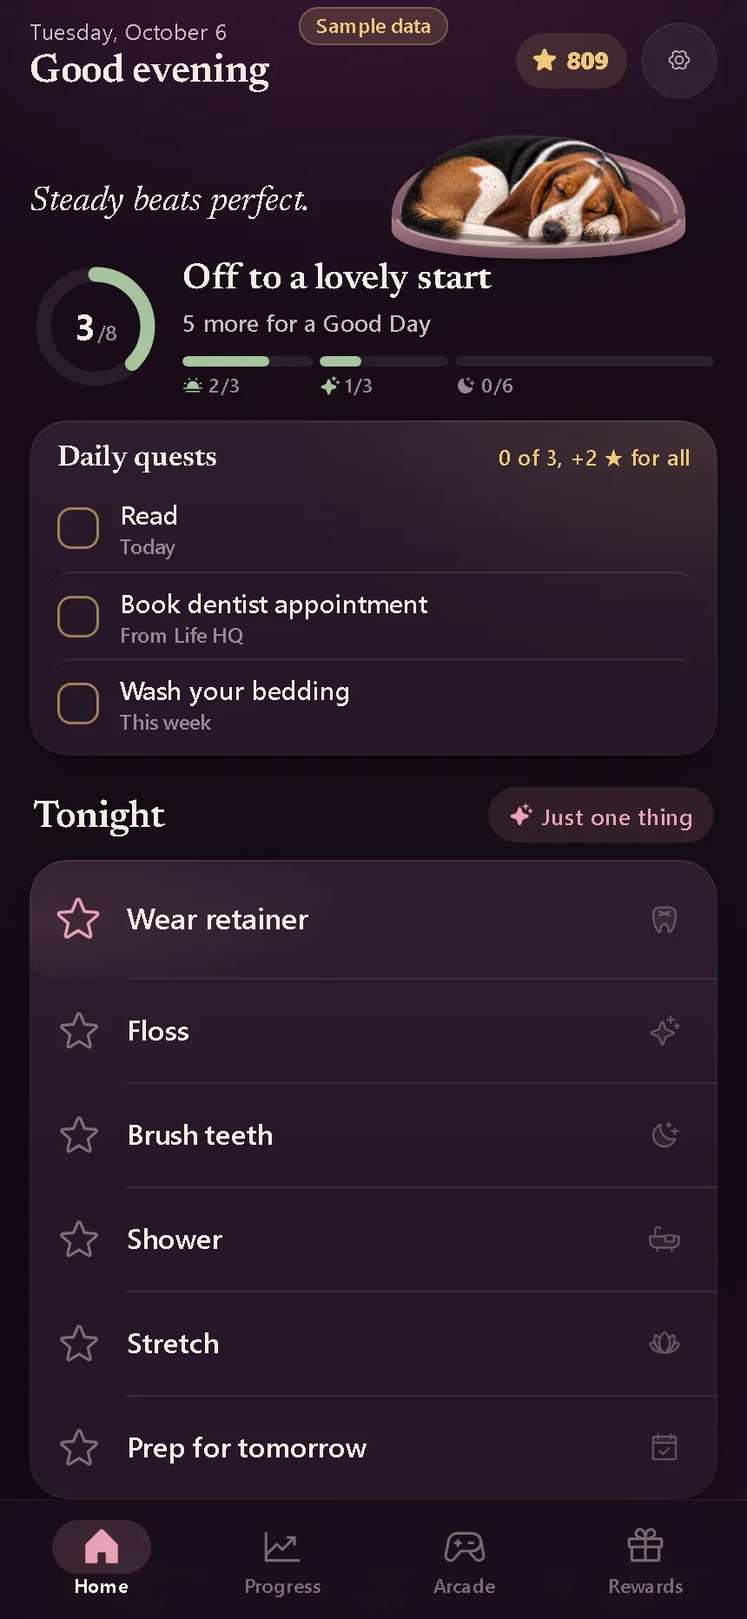
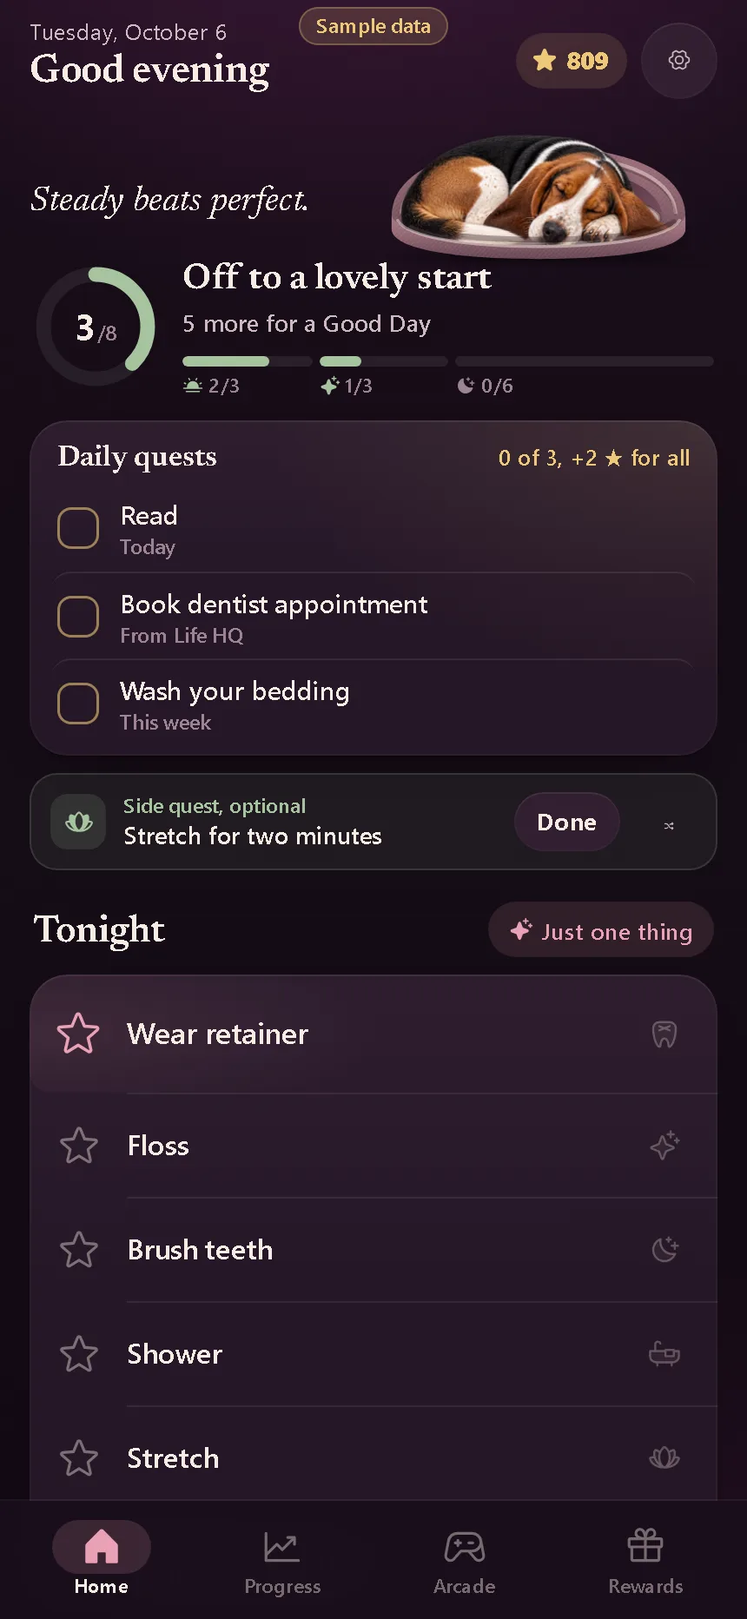
Demo snapshot from starcade@c166dc5

diff --git a/index.html b/index.html
@@ -6979,6 +6979,23 @@ button.td-pill{width:auto!important;flex:0 0 auto!important;min-width:132px;max-
 .one-card small{font:500 13px var(--ds-font);color:var(--ds-text-3)}
 .one-ic .ds-ic{width:32px;height:32px;color:var(--ds-rose)}
 .pg-link{position:relative}.pg-link::after{content:"";position:absolute;inset:-14px -10px}
+
+/* ===================== Pass 30: side quest, focus, Bingo history, add-habit ===================== */
+.td-side{display:flex;align-items:center;gap:10px;margin:-8px 0 18px;padding:10px 10px 10px 12px;border-radius:var(--ds-r-md);background:rgb(var(--ds-sage-rgb) / .08);box-shadow:inset 0 0 0 1px rgb(var(--ds-sage-rgb) / .18)}
+.td-side-ic{flex:none;width:32px;height:32px;border-radius:10px;display:grid;place-items:center;background:var(--ds-sage-wash);color:var(--ds-sage)}
+.td-side-ic .ds-ic{width:17px;height:17px}
+.td-side-tx{flex:1;min-width:0;display:flex;flex-direction:column;gap:1px}
+.td-side-tx small{font:600 11.5px var(--ds-font);color:var(--ds-sage)}
+.td-side-tx b{font:550 14px/1.3 var(--ds-font);color:var(--ds-text)}
+.td-side-swap{width:36px;height:36px;background:none!important;box-shadow:none!important}
+.td-side.done{opacity:.75}
+.td-side.done .td-side-tx b{color:var(--ds-text-3)}
+.focus-ring{display:flex;flex-direction:column;align-items:center;gap:6px;margin:6px auto 4px;width:200px;height:200px;border-radius:50%;justify-content:center;background:radial-gradient(circle,var(--ds-surface) 62%,transparent 63%),conic-gradient(var(--ds-rose),var(--ds-lav),var(--ds-rose));box-shadow:0 0 30px -10px rgb(var(--ds-rose-rgb) / .5)}
+.focus-ring b{font:600 44px/1 var(--ds-num);color:var(--ds-text);font-variant-numeric:tabular-nums}
+.focus-ring small{max-width:150px;font:500 13px var(--ds-font);color:var(--ds-text-2);text-align:center}
+.pg-bingohist{margin:12px 0 0}
+.add-more{margin-top:-4px}
+.td-side-swap .ds-ic{width:19px!important;height:19px!important;color:var(--ds-text-2)}
 </style>
 <script id="starcade-screens">
 /* Starcade screens, pass 10: Today and Arcade (Play + Learn), built from the starcade-ds components.
@@ -9127,7 +9144,7 @@ button.td-pill{width:auto!important;flex:0 0 auto!important;min-width:132px;max-
   window.pgDreamNew = () => addSheet({ title: 'Someday', submit: 'pgDream(event)', input: { id: 'newDream', max: 110, ph: 'Something you’d love to do', label: 'Someday goal' }, cta: 'Add to Someday' });
   window.pgWinNew = () => addSheet({ title: 'New moment', submit: 'pgWin(event)', input: { id: 'winText', max: 170, ph: 'Something worth remembering', label: 'Moment' }, chips: { id: 'winType', value: 'life', label: 'Kind of moment', options: Object.entries(LIFE_KIND) }, cta: 'Save moment' });
   window.lfTaskNew = () => addSheet({ title: 'New task', submit: 'lfAdd(event)', input: { id: 'newLifeTask', max: 110, ph: 'What needs doing?', label: 'Task' }, cta: 'Add task' });
-  window.stHabitNew = () => addSheet({ title: 'New habit', submit: 'stAdd(event)', input: { id: 'habitName', max: 100, ph: 'Name it, e.g. Drink water', label: 'Habit name' }, chips: { id: 'habitPart', value: 'anytime', label: 'When', options: [['morning', 'Morning'], ['anytime', 'Anytime'], ['night', 'Night'], ['bonus', 'Bonus'], ['weekly', 'Weekly']] }, extra: '<input type="hidden" id="habitFrequency" value="daily"><p class="tb-note add-note">Bonus habits earn stars but never count toward a Good Day.</p>', cta: 'Add habit' });
+  window.stHabitNew = () => addSheet({ title: 'New habit', submit: 'stAdd(event)', input: { id: 'habitName', max: 100, ph: 'Name it, e.g. Drink water', label: 'Habit name' }, chips: { id: 'habitPart', value: 'anytime', label: 'When', options: [['morning', 'Morning'], ['anytime', 'Anytime'], ['night', 'Night'], ['bonus', 'Bonus'], ['weekly', 'Weekly']] }, extra: '<button type="button" class="ds-btn ds-btn-ghost ds-btn-block add-more" onclick="stHabitNewMore()">More options: schedule, area, goal</button><input type="hidden" id="habitFrequency" value="daily"><p class="tb-note add-note">Bonus habits earn stars but never count toward a Good Day.</p>', cta: 'Add habit' });
   window.lfAdd = e => { addLifeTask(e); tbClose(); renderLife(); };
   function pgSomeday() {
     const S = state.starcade || {}, dreams = S.vision || [];
@@ -9226,6 +9243,7 @@ button.td-pill{width:auto!important;flex:0 0 auto!important;min-width:132px;max-
     const h = state.habits.length > n ? state.habits[state.habits.length - 1] : null;
     if (h && p !== 'weekly') { h.part = p; save(); }
     tbClose(); render(); renderSettings();
+    if (window.__stOpenAfterAdd && h) setTimeout(() => stHabit(h.id), 260); window.__stOpenAfterAdd = false;
   };
   window.stRemove = id => {
     const h = state.habits.find(x => x.id === id); if (!h || h.frequency === 'retired' || /^oura-/.test(h.id)) return;
@@ -9533,6 +9551,8 @@ button.td-pill{width:auto!important;flex:0 0 auto!important;min-width:132px;max-
         tb.querySelector('.pg-tabs').insertAdjacentHTML('afterend', levelHTML());
         const anchor = tb.querySelector('.pg-next') || tb.querySelector('.pg-wk');
         anchor.insertAdjacentHTML('afterend', habitsHTML() + areasHTML() + '<div class="ds-section pg-histhead"><span>History</span></div>');
+        const run = [...tb.querySelectorAll('.ds-section')].find(s => s.textContent.trim().startsWith('Running'));
+        if (run) run.insertAdjacentHTML('beforebegin', `<div class="ds-list pg-bingohist"><button type="button" class="ds-row tb-row" onclick="v7BingoHistory()"><span class="ds-glyph ds-glyph-gold">${ic('grid-nine-fill')}</span><span class="ds-row-main"><span class="ds-row-title">Past Bingo boards</span><span class="ds-row-sub">One board a week, as each one ended</span></span>${ic('caret-right-bold', 'tb-caret')}</button></div>`);
         const act = [...tb.querySelectorAll('.ds-section')].find(s => s.textContent.trim() === 'Activity'); if (act) act.remove();
       } else if (pgTab === 'goals') {
         const first = tb.querySelector('.ds-section'); if (first) first.insertAdjacentHTML('beforebegin', lifeGoalsHTML());
@@ -10220,6 +10240,7 @@ button.td-pill{width:auto!important;flex:0 0 auto!important;min-width:132px;max-
         <form class="ts-add" onsubmit="event.preventDefault();tSubAdd()"><input id="tsNew" maxlength="80" placeholder="Add a step" autocomplete="off"><button type="submit" class="ds-btn ds-btn-secondary ds-btn-sm">Add</button></form></div></div>
       <label class="hs-l">Note<textarea rows="2" maxlength="400" oninput="tIn('note',this.value)">${esc(e.note)}</textarea></label>
       <button type="button" class="ds-btn ds-btn-primary ds-btn-block" onclick="tSave()">Save</button>
+      ${t.done ? '' : `<button type="button" class="ds-btn ds-btn-secondary ds-btn-block" onclick="tSave();setTimeout(()=>lfFocus('${esc(t.id)}'),240)">${ic('clock-fill')}Focus for 15 minutes</button>`}
       <div class="hs-more"><button type="button" class="ds-btn ds-btn-ghost" onclick="tSave(true)">${t.done ? 'Mark not done' : 'Mark done'}</button><button type="button" class="ds-btn ds-btn-ghost" onclick="tDelete()">Delete</button></div>
       ${t.done && t.doneAt ? `<p class="tb-note">Completed ${esc(fmtShort(t.doneAt.slice(0, 10)))}.</p>` : ''}`);
   }
@@ -10344,6 +10365,7 @@ button.td-pill{width:auto!important;flex:0 0 auto!important;min-width:132px;max-
       ${tdNotice()}
       <section class="td-hero ${g.good ? 'is-good' : ''}" aria-label="Today’s progress">${ring(doneCore, g.need)}<div class="td-head"><h2>${g.good ? ic('sparkle-fill', 'gd') : ''}${esc(cheer)}</h2><p class="td-sub">${esc(subline)}</p><div class="td-ctx">${goodDayChips(g)}</div></div></section>
       ${questsHTML()}
+      ${(window.__starcadeSideQuestHTML || (() => ''))()}
       ${nowHTML}
       ${pillsHTML(now && now.current ? now.p : null)}
       ${tasksHTML()}
@@ -10421,6 +10443,58 @@ button.td-pill{width:auto!important;flex:0 0 auto!important;min-width:132px;max-
       <div class="hs-more"><button type="button" class="ds-btn ds-btn-ghost" onclick="tdJustOne('${esc(pick.h.id)}')">Something else</button><button type="button" class="ds-btn ds-btn-ghost" onclick="tbClose()">Not now</button></div></div>`, 'Just one thing');
   };
   window.tdJustOneAgain = function () { if (!daily().some(h => !completed(h) && SC2.showToday(h))) return; tbSheet(`<div class="hs one"><div class="ar-tok-hero">${ic('star-fill')}<b>Nice</b><span>That counts.</span></div><button type="button" class="ds-btn ds-btn-primary ds-btn-block" onclick="tdJustOne()">One more</button><button type="button" class="ds-btn ds-btn-ghost ds-btn-block" onclick="tbClose()">That’s enough for now</button></div>`, 'Just one thing'); };
+
+  /* ===================== PASS 30: small 2.0 features on the stable foundation =====================
+     Side quests, a focus timer for Life HQ tasks, Bingo in Progress, and progressive disclosure when adding a habit.
+     Nothing here pays stars: side quests give XP only (derived from starcade.sideQuests), so the economy can't inflate. */
+
+  /* ---------- Side quests: one optional real-world mini action a day (generic, never about body or money outcomes) ---------- */
+  const SIDE_QUESTS = [
+    ['outside', 'Step outside for five minutes', 'sun-horizon-fill'], ['tidy', 'Clear one small surface', 'basket-duotone'],
+    ['water', 'Drink a full glass of water', 'drop-fill'], ['message', 'Send a kind message to someone you care about', 'hand-heart-duotone'],
+    ['stretch', 'Stretch for two minutes', 'flower-lotus-fill'], ['read', 'Read five pages of anything', 'book-open-fill'],
+    ['breathe', 'Take ten slow breaths by a window', 'leaf-fill'], ['music', 'Listen to one song you love, doing nothing else', 'feather-fill'],
+    ['plan', 'Write down tomorrow’s first small step', 'pencil-simple-line-duotone'], ['declutter', 'Put five things back where they belong', 'stack-duotone'],
+  ];
+  const SIDE_XP = 10;
+  function sideQuest() {
+    const S = SC(), t = today(); S.sideQuests = S.sideQuests || {};
+    if (S.sideQuestsOff) return null;
+    let rec = S.sideQuests[t];
+    if (!rec) { const n = Math.floor(Date.parse(t + 'T12:00:00Z') / 864e5); rec = S.sideQuests[t] = { id: SIDE_QUESTS[(n * 7) % SIDE_QUESTS.length][0] }; save(); }
+    const q = SIDE_QUESTS.find(x => x[0] === rec.id) || SIDE_QUESTS[0];
+    return { id: q[0], title: q[1], icon: q[2], done: !!rec.doneAt };
+  }
+  window.tdSideDone = function () { const S = SC(), r = (S.sideQuests || {})[today()]; if (!r || r.doneAt) return; r.doneAt = new Date().toISOString(); save(); feedback('success'); render(); };
+  window.tdSideSwap = function () { const S = SC(), r = (S.sideQuests || {})[today()]; if (!r || r.doneAt) return; const i = SIDE_QUESTS.findIndex(x => x[0] === r.id); r.id = SIDE_QUESTS[(i + 1) % SIDE_QUESTS.length][0]; save(); render(); };
+  window.__starcadeSideQuestHTML = function () {
+    const q = sideQuest(); if (!q) return '';
+    return `<div class="td-side ${q.done ? 'done' : ''}"><span class="td-side-ic">${ic(q.done ? 'check-bold' : q.icon)}</span><span class="td-side-tx"><small>Side quest${q.done ? `, +${SIDE_XP} XP` : ', optional'}</small><b>${esc(q.title)}</b></span>${q.done ? '' : `<button type="button" class="ds-btn ds-btn-secondary ds-btn-sm" onclick="tdSideDone()">Done</button><button type="button" class="ds-iconbtn td-side-swap" onclick="tdSideSwap()" aria-label="Swap for another side quest">${ic('shuffle-bold')}</button>`}</div>`;
+  };
+  // side quests add XP (never stars): extend the derived XP total
+  (function () { const base = SC2.xp; SC2.xp = function () { const r = base(); const n = Object.values((SC().sideQuests) || {}).filter(x => x && x.doneAt).length; r.parts.sideQuests = n * SIDE_XP; r.total += n * SIDE_XP; return r; }; })();
+
+  /* ---------- Focus quest: a short timer attached to a real Life HQ task ---------- */
+  let focusT = 0;
+  window.lfFocus = function (id, mins = 15) {
+    const t = SC2.tasks().find(x => String(x.id) === String(id)); if (!t) return;
+    const end = Date.now() + mins * 60000; clearInterval(focusT);
+    tbSheet(`<div class="hs focus"><p class="tb-note">Just this, for ${mins} minutes.</p><div class="focus-ring"><b id="fcTime">${mins}:00</b><small>${esc(t.name)}</small></div>
+      <button type="button" class="ds-btn ds-btn-primary ds-btn-block" onclick="clearInterval(window.__fcT);tbClose();lfToggle('${esc(t.id)}')">I finished it</button>
+      <button type="button" class="ds-btn ds-btn-ghost ds-btn-block" onclick="clearInterval(window.__fcT);tbClose()">Stop for now</button></div>`, 'Focus');
+    const tick = () => { const left = Math.max(0, end - Date.now()), el = document.getElementById('fcTime'); if (!el) { clearInterval(focusT); return; } el.textContent = `${Math.floor(left / 60000)}:${String(Math.floor(left % 60000 / 1000)).padStart(2, '0')}`; if (!left) { clearInterval(focusT); el.textContent = 'Time'; feedback('success'); } };
+    focusT = window.__fcT = setInterval(tick, 1000); tick();
+  };
+
+  /* ---------- Bingo in Progress: lines in the recaps, past boards from History ---------- */
+  (window.__starcadeRecapExtras = window.__starcadeRecapExtras || []).push(days => {
+    const B = SC().bingoWeekly || {}, ks = new Set(days.map(d => weekKey(d)));
+    const n = [...ks].reduce((t, k) => t + ((B[k] && B[k].lines) || []).length, 0);
+    return n ? { n, label: n === 1 ? 'Bingo line' : 'Bingo lines', tone: 'gold' } : null;
+  });
+
+  /* ---------- Adding a habit: name and time of day first, everything else one tap away ---------- */
+  window.stHabitNewMore = function () { window.__stOpenAfterAdd = true; const f = document.querySelector('#tbSheet form.add-sheet'); if (f) f.requestSubmit(); };
 
   /* ===================== K1 (pass 24): quiet the superseded legacy layers =====================
      The legacy layers from the base file still do invisible work on every render(). This file stops only that work:

diff --git a/review/index.html b/review/index.html
@@ -4,7 +4,7 @@ ul.grid{list-style:none;padding:0;display:grid;grid-template-columns:repeat(auto
 ul.grid img{display:block;width:100%;height:auto;aspect-ratio:430/932;object-fit:cover;object-position:top;border-radius:10px;background:#261727}
 figure{margin:0}figure img{display:block;max-width:430px;width:100%;height:auto;border-radius:12px;background:#261727}pre{white-space:pre-wrap;background:#261727;padding:12px 14px;border-radius:10px;color:#CFB9C1;font:14px/1.45 system-ui,sans-serif}
 nav.pn{display:flex;justify-content:space-between;gap:12px;margin:14px 0}dl{display:grid;grid-template-columns:max-content 1fr;gap:4px 14px;margin:0 0 16px;color:#CFB9C1}dt{color:#9C8492}</style></head><body><main><h1>Starcade demo · visual review</h1>
-<p class="meta">Read-only, pre-rendered snapshots of every major screen and state of Starcade, generated automatically from the live demo build with sample data only (no real user data). Viewport 430×932 (large iPhone), device scale 2. 65 screens and states. Generated 2026-10-06 04:50 UTC. This page needs no JavaScript. The interactive demo itself is at <a href="../">the demo home</a>.</p>
+<p class="meta">Read-only, pre-rendered snapshots of every major screen and state of Starcade, generated automatically from the live demo build with sample data only (no real user data). Viewport 430×932 (large iPhone), device scale 2. 65 screens and states. Generated 2026-10-06 05:09 UTC. This page needs no JavaScript. The interactive demo itself is at <a href="../">the demo home</a>.</p>
 <p>Overview of everything at once: <a href="img/00-contact-sheet.webp">contact sheet image</a>.</p>
 <p><img src="img/00-contact-sheet.webp" alt="Contact sheet: the first screen of all 65 Starcade screens and states side by side" style="max-width:100%;height:auto;border-radius:10px"></p>
 <h2>Home</h2><ul class="grid"><li><a href="01-home.html"><img src="img/01-home.webp" alt="Home · Today (afternoon, Dexter relaxed in his bed)" loading="lazy" width="430" height="932"><span>Home · Today (afternoon, Dexter relaxed in his bed)</span></a></li><li><a href="02-home-routine-pill-open.html"><img src="img/02-home-routine-pill-open.webp" alt="Home · a routine pill opened in place (Night)" loading="lazy" width="430" height="932"><span>Home · a routine pill opened in place (Night)</span></a></li><li><a href="03-home-week-pill-open.html"><img src="img/03-home-week-pill-open.webp" alt="Home · This week pill opened (weekly reset)" loading="lazy" width="430" height="932"><span>Home · This week pill opened (weekly reset)</span></a></li><li><a href="04-home-completed-expanded.html"><img src="img/04-home-completed-expanded.webp" alt="Home · Completed habits expanded" loading="lazy" width="430" height="932"><span>Home · Completed habits expanded</span></a></li><li><a href="05-home-quick-actions.html"><img src="img/05-home-quick-actions.webp" alt="Home · press and hold a habit: quick actions (skip, rest, partly, note)" loading="lazy" width="430" height="932"><span>Home · press and hold a habit: quick actions (skip, rest, partly, note)</span></a></li><li><a href="06-home-just-one-thing.html"><img src="img/06-home-just-one-thing.webp" alt="Home · Just one thing (pick for me)" loading="lazy" width="430" height="932"><span>Home · Just one thing (pick for me)</span></a></li><li><a href="07-daily-surprise-closed.html"><img src="img/07-daily-surprise-closed.webp" alt="Daily Surprise · the gift before opening" loading="lazy" width="430" height="932"><span>Daily Surprise · the gift before opening</span></a></li><li><a href="08-daily-surprise-opened.html"><img src="img/08-daily-surprise-opened.webp" alt="Daily Surprise · revealed" loading="lazy" width="430" height="932"><span>Daily Surprise · revealed</span></a></li></ul>

diff --git a/review/19-progress-overview.html b/review/19-progress-overview.html
@@ -4,9 +4,9 @@ ul.grid{list-style:none;padding:0;display:grid;grid-template-columns:repeat(auto
 ul.grid img{display:block;width:100%;height:auto;aspect-ratio:430/932;object-fit:cover;object-position:top;border-radius:10px;background:#261727}
 figure{margin:0}figure img{display:block;max-width:430px;width:100%;height:auto;border-radius:12px;background:#261727}pre{white-space:pre-wrap;background:#261727;padding:12px 14px;border-radius:10px;color:#CFB9C1;font:14px/1.45 system-ui,sans-serif}
 nav.pn{display:flex;justify-content:space-between;gap:12px;margin:14px 0}dl{display:grid;grid-template-columns:max-content 1fr;gap:4px 14px;margin:0 0 16px;color:#CFB9C1}dt{color:#9C8492}</style></head><body><main><p><a href="index.html">← All screens</a></p><h1>Progress · Overview (this week story, next milestone, goals, insights, activity, running, milestones)</h1>
-<dl><dt>Area</dt><dd>Progress</dd><dt>Screen 19 of 65</dt><dd>progress-overview</dd><dt>Capture</dt><dd>full scrolling page (430×2014), demo time 15:00, sample data</dd><dt>Image</dt><dd><a href="img/19-progress-overview.webp">img/19-progress-overview.webp</a></dd></dl>
+<dl><dt>Area</dt><dd>Progress</dd><dt>Screen 19 of 65</dt><dd>progress-overview</dd><dt>Capture</dt><dd>full scrolling page (430×2074), demo time 15:00, sample data</dd><dt>Image</dt><dd><a href="img/19-progress-overview.webp">img/19-progress-overview.webp</a></dd></dl>
 <nav class="pn"><a href="18-progress-goals.html">← Progress · Goals (three goals set)</a><a href="20-progress-activity-stars.html">Progress · Activity switched to the stars chart →</a></nav>
-<figure><img src="img/19-progress-overview.webp" alt="Screenshot: Progress · Overview (this week story, next milestone, goals, insights, activity, running, milestones)" width="430" height="2014"><figcaption class="meta">Progress · Overview (this week story, next milestone, goals, insights, activity, running, milestones)</figcaption></figure>
+<figure><img src="img/19-progress-overview.webp" alt="Screenshot: Progress · Overview (this week story, next milestone, goals, insights, activity, running, milestones)" width="430" height="2074"><figcaption class="meta">Progress · Overview (this week story, next milestone, goals, insights, activity, running, milestones)</figcaption></figure>
 <h2>Text on this screen</h2><pre>Progress
 Overview
 Goals
@@ -122,6 +122,8 @@ Oct
 Good Day
 Habits done
 Last 5 weeks
+Past Bingo boards
+One board a week, as each one ended
 Running
 No runs yet this week
 2 more for the weekly goal. Last run Oct 4

diff --git a/review/20-progress-activity-stars.html b/review/20-progress-activity-stars.html
@@ -4,9 +4,9 @@ ul.grid{list-style:none;padding:0;display:grid;grid-template-columns:repeat(auto
 ul.grid img{display:block;width:100%;height:auto;aspect-ratio:430/932;object-fit:cover;object-position:top;border-radius:10px;background:#261727}
 figure{margin:0}figure img{display:block;max-width:430px;width:100%;height:auto;border-radius:12px;background:#261727}pre{white-space:pre-wrap;background:#261727;padding:12px 14px;border-radius:10px;color:#CFB9C1;font:14px/1.45 system-ui,sans-serif}
 nav.pn{display:flex;justify-content:space-between;gap:12px;margin:14px 0}dl{display:grid;grid-template-columns:max-content 1fr;gap:4px 14px;margin:0 0 16px;color:#CFB9C1}dt{color:#9C8492}</style></head><body><main><p><a href="index.html">← All screens</a></p><h1>Progress · Activity switched to the stars chart</h1>
-<dl><dt>Area</dt><dd>Progress</dd><dt>Screen 20 of 65</dt><dd>progress-activity-stars</dd><dt>Capture</dt><dd>full scrolling page (430×1980), demo time 15:00, sample data</dd><dt>Image</dt><dd><a href="img/20-progress-activity-stars.webp">img/20-progress-activity-stars.webp</a></dd></dl>
+<dl><dt>Area</dt><dd>Progress</dd><dt>Screen 20 of 65</dt><dd>progress-activity-stars</dd><dt>Capture</dt><dd>full scrolling page (430×2040), demo time 15:00, sample data</dd><dt>Image</dt><dd><a href="img/20-progress-activity-stars.webp">img/20-progress-activity-stars.webp</a></dd></dl>
 <nav class="pn"><a href="19-progress-overview.html">← Progress · Overview (this week story, next milestone, goals, insights, activity, running, milestones)</a><a href="21-progress-recaps-week.html">Progress · Recaps, week in review →</a></nav>
-<figure><img src="img/20-progress-activity-stars.webp" alt="Screenshot: Progress · Activity switched to the stars chart" width="430" height="1980"><figcaption class="meta">Progress · Activity switched to the stars chart</figcaption></figure>
+<figure><img src="img/20-progress-activity-stars.webp" alt="Screenshot: Progress · Activity switched to the stars chart" width="430" height="2040"><figcaption class="meta">Progress · Activity switched to the stars chart</figcaption></figure>
 <h2>Text on this screen</h2><pre>Progress
 Overview
 Goals
@@ -85,6 +85,8 @@ T
 F
 S
 S
+Past Bingo boards
+One board a week, as each one ended
 Running
 No runs yet this week
 2 more for the weekly goal. Last run Oct 4

diff --git a/review/02-home-routine-pill-open.html b/review/02-home-routine-pill-open.html
@@ -4,9 +4,9 @@ ul.grid{list-style:none;padding:0;display:grid;grid-template-columns:repeat(auto
 ul.grid img{display:block;width:100%;height:auto;aspect-ratio:430/932;object-fit:cover;object-position:top;border-radius:10px;background:#261727}
 figure{margin:0}figure img{display:block;max-width:430px;width:100%;height:auto;border-radius:12px;background:#261727}pre{white-space:pre-wrap;background:#261727;padding:12px 14px;border-radius:10px;color:#CFB9C1;font:14px/1.45 system-ui,sans-serif}
 nav.pn{display:flex;justify-content:space-between;gap:12px;margin:14px 0}dl{display:grid;grid-template-columns:max-content 1fr;gap:4px 14px;margin:0 0 16px;color:#CFB9C1}dt{color:#9C8492}</style></head><body><main><p><a href="index.html">← All screens</a></p><h1>Home · a routine pill opened in place (Night)</h1>
-<dl><dt>Area</dt><dd>Home</dd><dt>Screen 2 of 65</dt><dd>home-routine-pill-open</dd><dt>Capture</dt><dd>full scrolling page (430×1668), demo time 15:00, sample data</dd><dt>Image</dt><dd><a href="img/02-home-routine-pill-open.webp">img/02-home-routine-pill-open.webp</a></dd></dl>
+<dl><dt>Area</dt><dd>Home</dd><dt>Screen 2 of 65</dt><dd>home-routine-pill-open</dd><dt>Capture</dt><dd>full scrolling page (430×1734), demo time 15:00, sample data</dd><dt>Image</dt><dd><a href="img/02-home-routine-pill-open.webp">img/02-home-routine-pill-open.webp</a></dd></dl>
 <nav class="pn"><a href="01-home.html">← Home · Today (afternoon, Dexter relaxed in his bed)</a><a href="03-home-week-pill-open.html">Home · This week pill opened (weekly reset) →</a></nav>
-<figure><img src="img/02-home-routine-pill-open.webp" alt="Screenshot: Home · a routine pill opened in place (Night)" width="430" height="1668"><figcaption class="meta">Home · a routine pill opened in place (Night)</figcaption></figure>
+<figure><img src="img/02-home-routine-pill-open.webp" alt="Screenshot: Home · a routine pill opened in place (Night)" width="430" height="1734"><figcaption class="meta">Home · a routine pill opened in place (Night)</figcaption></figure>
 <h2>Text on this screen</h2><pre>Good afternoon
 Steady beats perfect.
 
@@ -27,6 +27,9 @@ Book dentist appointment
 From Life HQ
 Wash your bedding
 This week
+Side quest, optional
+Stretch for two minutes
+Done
 This afternoon
 Just one thing
 Exercise or 7,500 steps

diff --git a/review/04-home-completed-expanded.html b/review/04-home-completed-expanded.html
@@ -4,9 +4,9 @@ ul.grid{list-style:none;padding:0;display:grid;grid-template-columns:repeat(auto
 ul.grid img{display:block;width:100%;height:auto;aspect-ratio:430/932;object-fit:cover;object-position:top;border-radius:10px;background:#261727}
 figure{margin:0}figure img{display:block;max-width:430px;width:100%;height:auto;border-radius:12px;background:#261727}pre{white-space:pre-wrap;background:#261727;padding:12px 14px;border-radius:10px;color:#CFB9C1;font:14px/1.45 system-ui,sans-serif}
 nav.pn{display:flex;justify-content:space-between;gap:12px;margin:14px 0}dl{display:grid;grid-template-columns:max-content 1fr;gap:4px 14px;margin:0 0 16px;color:#CFB9C1}dt{color:#9C8492}</style></head><body><main><p><a href="index.html">← All screens</a></p><h1>Home · Completed habits expanded</h1>
-<dl><dt>Area</dt><dd>Home</dd><dt>Screen 4 of 65</dt><dd>home-completed-expanded</dd><dt>Capture</dt><dd>full scrolling page (430×1452), demo time 15:00, sample data</dd><dt>Image</dt><dd><a href="img/04-home-completed-expanded.webp">img/04-home-completed-expanded.webp</a></dd></dl>
+<dl><dt>Area</dt><dd>Home</dd><dt>Screen 4 of 65</dt><dd>home-completed-expanded</dd><dt>Capture</dt><dd>full scrolling page (430×1518), demo time 15:00, sample data</dd><dt>Image</dt><dd><a href="img/04-home-completed-expanded.webp">img/04-home-completed-expanded.webp</a></dd></dl>
 <nav class="pn"><a href="03-home-week-pill-open.html">← Home · This week pill opened (weekly reset)</a><a href="05-home-quick-actions.html">Home · press and hold a habit: quick actions (skip, rest, partly, note) →</a></nav>
-<figure><img src="img/04-home-completed-expanded.webp" alt="Screenshot: Home · Completed habits expanded" width="430" height="1452"><figcaption class="meta">Home · Completed habits expanded</figcaption></figure>
+<figure><img src="img/04-home-completed-expanded.webp" alt="Screenshot: Home · Completed habits expanded" width="430" height="1518"><figcaption class="meta">Home · Completed habits expanded</figcaption></figure>
 <h2>Text on this screen</h2><pre>Good afternoon
 Steady beats perfect.
 
@@ -27,6 +27,9 @@ Book dentist appointment
 From Life HQ
 Wash your bedding
 This week
+Side quest, optional
+Stretch for two minutes
+Done
 This afternoon
 Just one thing
 Exercise or 7,500 steps

diff --git a/review/03-home-week-pill-open.html b/review/03-home-week-pill-open.html
@@ -4,9 +4,9 @@ ul.grid{list-style:none;padding:0;display:grid;grid-template-columns:repeat(auto
 ul.grid img{display:block;width:100%;height:auto;aspect-ratio:430/932;object-fit:cover;object-position:top;border-radius:10px;background:#261727}
 figure{margin:0}figure img{display:block;max-width:430px;width:100%;height:auto;border-radius:12px;background:#261727}pre{white-space:pre-wrap;background:#261727;padding:12px 14px;border-radius:10px;color:#CFB9C1;font:14px/1.45 system-ui,sans-serif}
 nav.pn{display:flex;justify-content:space-between;gap:12px;margin:14px 0}dl{display:grid;grid-template-columns:max-content 1fr;gap:4px 14px;margin:0 0 16px;color:#CFB9C1}dt{color:#9C8492}</style></head><body><main><p><a href="index.html">← All screens</a></p><h1>Home · This week pill opened (weekly reset)</h1>
-<dl><dt>Area</dt><dd>Home</dd><dt>Screen 3 of 65</dt><dd>home-week-pill-open</dd><dt>Capture</dt><dd>full scrolling page (430×1830), demo time 15:00, sample data</dd><dt>Image</dt><dd><a href="img/03-home-week-pill-open.webp">img/03-home-week-pill-open.webp</a></dd></dl>
+<dl><dt>Area</dt><dd>Home</dd><dt>Screen 3 of 65</dt><dd>home-week-pill-open</dd><dt>Capture</dt><dd>full scrolling page (430×1896), demo time 15:00, sample data</dd><dt>Image</dt><dd><a href="img/03-home-week-pill-open.webp">img/03-home-week-pill-open.webp</a></dd></dl>
 <nav class="pn"><a href="02-home-routine-pill-open.html">← Home · a routine pill opened in place (Night)</a><a href="04-home-completed-expanded.html">Home · Completed habits expanded →</a></nav>
-<figure><img src="img/03-home-week-pill-open.webp" alt="Screenshot: Home · This week pill opened (weekly reset)" width="430" height="1830"><figcaption class="meta">Home · This week pill opened (weekly reset)</figcaption></figure>
+<figure><img src="img/03-home-week-pill-open.webp" alt="Screenshot: Home · This week pill opened (weekly reset)" width="430" height="1896"><figcaption class="meta">Home · This week pill opened (weekly reset)</figcaption></figure>
 <h2>Text on this screen</h2><pre>Good afternoon
 Steady beats perfect.
 
@@ -27,6 +27,9 @@ Book dentist appointment
 From Life HQ
 Wash your bedding
 This week
+Side quest, optional
+Stretch for two minutes
+Done
 This afternoon
 Just one thing
 Exercise or 7,500 steps

diff --git a/review/15-home-good-day.html b/review/15-home-good-day.html
@@ -4,9 +4,9 @@ ul.grid{list-style:none;padding:0;display:grid;grid-template-columns:repeat(auto
 ul.grid img{display:block;width:100%;height:auto;aspect-ratio:430/932;object-fit:cover;object-position:top;border-radius:10px;background:#261727}
 figure{margin:0}figure img{display:block;max-width:430px;width:100%;height:auto;border-radius:12px;background:#261727}pre{white-space:pre-wrap;background:#261727;padding:12px 14px;border-radius:10px;color:#CFB9C1;font:14px/1.45 system-ui,sans-serif}
 nav.pn{display:flex;justify-content:space-between;gap:12px;margin:14px 0}dl{display:grid;grid-template-columns:max-content 1fr;gap:4px 14px;margin:0 0 16px;color:#CFB9C1}dt{color:#9C8492}</style></head><body><main><p><a href="index.html">← All screens</a></p><h1>Home · Good Day achieved (starlit card)</h1>
-<dl><dt>Area</dt><dd>Good Day</dd><dt>Screen 15 of 65</dt><dd>home-good-day</dd><dt>Capture</dt><dd>full scrolling page (430×1266), demo time 16:00, sample data</dd><dt>Image</dt><dd><a href="img/15-home-good-day.webp">img/15-home-good-day.webp</a></dd></dl>
+<dl><dt>Area</dt><dd>Good Day</dd><dt>Screen 15 of 65</dt><dd>home-good-day</dd><dt>Capture</dt><dd>full scrolling page (430×1332), demo time 16:00, sample data</dd><dt>Image</dt><dd><a href="img/15-home-good-day.webp">img/15-home-good-day.webp</a></dd></dl>
 <nav class="pn"><a href="14-good-day-celebration.html">← Good Day · the celebration moment as the 8th core habit is checked</a><a href="16-progress-goals-empty.html">Progress · Goals (empty state) →</a></nav>
-<figure><img src="img/15-home-good-day.webp" alt="Screenshot: Home · Good Day achieved (starlit card)" width="430" height="1266"><figcaption class="meta">Home · Good Day achieved (starlit card)</figcaption></figure>
+<figure><img src="img/15-home-good-day.webp" alt="Screenshot: Home · Good Day achieved (starlit card)" width="430" height="1332"><figcaption class="meta">Home · Good Day achieved (starlit card)</figcaption></figure>
 <h2>Text on this screen</h2><pre>Good afternoon
 Steady beats perfect.
 
@@ -27,6 +27,9 @@ Book dentist appointment
 From Life HQ
 Wash your bedding
 This week
+Side quest, optional
+Stretch for two minutes
+Done
 Still open: Morning
 Just one thing
 Brush teeth

diff --git a/review/01-home.html b/review/01-home.html
@@ -4,9 +4,9 @@ ul.grid{list-style:none;padding:0;display:grid;grid-template-columns:repeat(auto
 ul.grid img{display:block;width:100%;height:auto;aspect-ratio:430/932;object-fit:cover;object-position:top;border-radius:10px;background:#261727}
 figure{margin:0}figure img{display:block;max-width:430px;width:100%;height:auto;border-radius:12px;background:#261727}pre{white-space:pre-wrap;background:#261727;padding:12px 14px;border-radius:10px;color:#CFB9C1;font:14px/1.45 system-ui,sans-serif}
 nav.pn{display:flex;justify-content:space-between;gap:12px;margin:14px 0}dl{display:grid;grid-template-columns:max-content 1fr;gap:4px 14px;margin:0 0 16px;color:#CFB9C1}dt{color:#9C8492}</style></head><body><main><p><a href="index.html">← All screens</a></p><h1>Home · Today (afternoon, Dexter relaxed in his bed)</h1>
-<dl><dt>Area</dt><dd>Home</dd><dt>Screen 1 of 65</dt><dd>home</dd><dt>Capture</dt><dd>full scrolling page (430×1326), demo time 15:00, sample data</dd><dt>Image</dt><dd><a href="img/01-home.webp">img/01-home.webp</a></dd></dl>
+<dl><dt>Area</dt><dd>Home</dd><dt>Screen 1 of 65</dt><dd>home</dd><dt>Capture</dt><dd>full scrolling page (430×1392), demo time 15:00, sample data</dd><dt>Image</dt><dd><a href="img/01-home.webp">img/01-home.webp</a></dd></dl>
 <nav class="pn"><span></span><a href="02-home-routine-pill-open.html">Home · a routine pill opened in place (Night) →</a></nav>
-<figure><img src="img/01-home.webp" alt="Screenshot: Home · Today (afternoon, Dexter relaxed in his bed)" width="430" height="1326"><figcaption class="meta">Home · Today (afternoon, Dexter relaxed in his bed)</figcaption></figure>
+<figure><img src="img/01-home.webp" alt="Screenshot: Home · Today (afternoon, Dexter relaxed in his bed)" width="430" height="1392"><figcaption class="meta">Home · Today (afternoon, Dexter relaxed in his bed)</figcaption></figure>
 <h2>Text on this screen</h2><pre>Good afternoon
 Steady beats perfect.
 
@@ -27,6 +27,9 @@ Book dentist appointment
 From Life HQ
 Wash your bedding
 This week
+Side quest, optional
+Stretch for two minutes
+Done
 This afternoon
 Just one thing
 Exercise or 7,500 steps

diff --git a/review/10-dexter-celebrate.html b/review/10-dexter-celebrate.html
@@ -27,6 +27,9 @@ Book dentist appointment
 From Life HQ
 Wash your bedding
 This week
+Side quest, optional
+Stretch for two minutes
+Done
 This afternoon
 Just one thing
 Exercise or 7,500 steps

diff --git a/review/14-good-day-celebration.html b/review/14-good-day-celebration.html
@@ -27,6 +27,9 @@ Book dentist appointment
 From Life HQ
 Wash your bedding
 This week
+Side quest, optional
+Stretch for two minutes
+Done
 Still open: Morning
 Just one thing
 Brush teeth

diff --git a/review/11-home-morning.html b/review/11-home-morning.html
@@ -27,6 +27,9 @@ Book dentist appointment
 From Life HQ
 Wash your bedding
 This week
+Side quest, optional
+Stretch for two minutes
+Done
 This morning
 Just one thing
 Brush teeth
